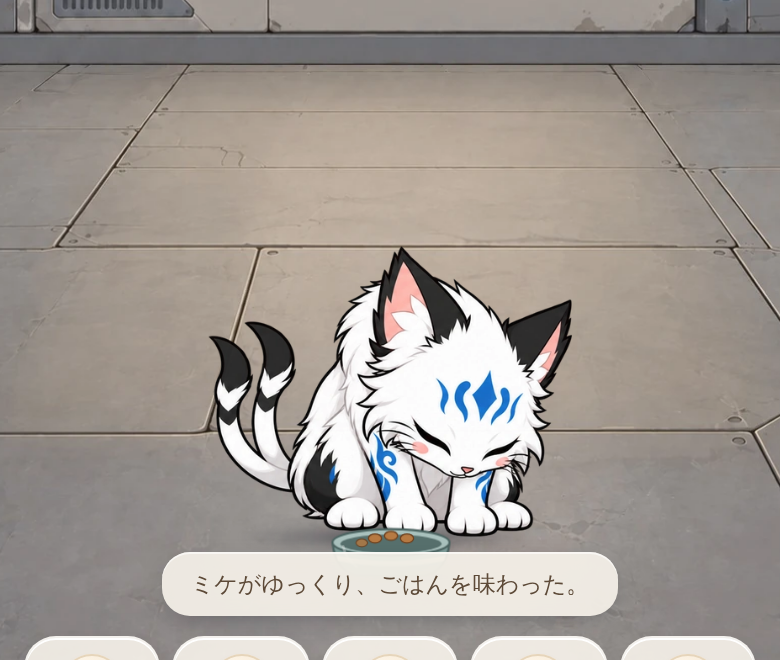
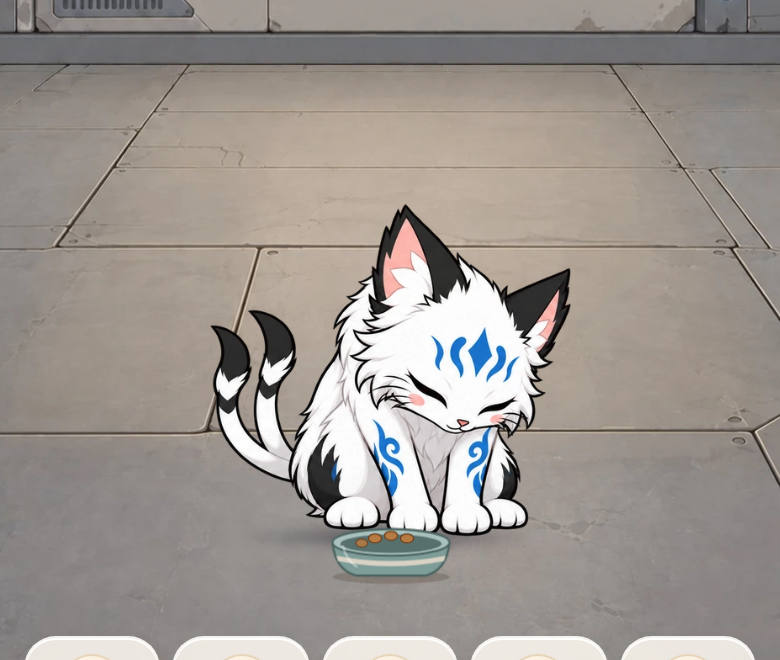
Import the re-uploaded intact pet packs (no repairs needed)
Claude-Session: https://claude.ai/code/session_01VFqs9zt8fg4yysVesTvDts

Changed region(s): [[0.1846, 0.303, 0.8, 0.9394]]

diff --git a/tests/pets-assets.test.ts b/tests/pets-assets.test.ts
@@ -39,8 +39,8 @@ describe("取り込んだペット素材（6体 × 8動作）", () => {
       expect(new Set(CHARS.map(total)).size, a).toBe(1);
     }
   });
-  it("欠けて読めなかった絵の復元内容を記録している（cat_adult）", () => {
-    expect(manifest.repairs.cat_adult!.length).toBe(8);
+  it("再アップロードされた素材はすべて無事で、復元・置き換えを使っていない", () => {
+    for (const c of CHARS) expect(manifest.repairs[c], c).toEqual([]);
   });
 });
 

diff --git a/scripts/import-pets.py b/scripts/import-pets.py
@@ -18,7 +18,7 @@ ROOT = Path(__file__).resolve().parents[1]
 OUT = ROOT / 'public/assets/pets'
 PAGE = 2048
 PADDING = 4
-SUBSTITUTE = {('cat_adult', 'eat/00'): 'eat/03', ('cat_adult', 'eat/01'): 'eat/03'}
+SUBSTITUTE = {}   # 切れた素材の置き換え（現在は全素材が無事なので空）。必要なら {('キャラ', 'eat/00'): 'eat/03'} の形で指定
 
 
 def pack_page(items):

diff --git a/docs/pets-v2.md b/docs/pets-v2.md
@@ -8,13 +8,10 @@
   使うコマだけを詰め直し、WebP（質 96・アルファ無劣化）に変換（PNG 計約 47MB → 約 11MB）。元の画素は変えていない。
 - 旧素材（`public/assets/dog`・`public/assets/pet/cat`、旧リグのコード）はリポジトリに残すが、使わない（事前キャッシュ・プレビューから除外）。
 
-## 提供素材の不具合と復元（要確認）
-- **`cat_adult/page-0.png` が途中で切れている**（ZIP の整合性は正常。ファイル自体が約 55% で終わっている）。使うコマのうち欠けたのは 8 コマ。
-  - `walk_right/02〜07`：`walk_left/02〜07`（別ページで無事）を左右反転して復元。素材の説明どおり左右は厳密な反転で、無事なコマで差が 0 であることを確認済み。
-  - `eat/00`・`eat/01`：復元できないため、近い姿勢の `eat/03`（頭を下げた姿勢）で置き換えた。**成猫の食事で、舌を出すコマがなくなり、頭を下げたまま止まる時間が少し長い。**
-  - 原本を再アップロードしてもらえれば、`scripts/import-pets.py` を再実行して差し替えられる。
-- `cat_baby/page-1`・`dog_baby/page-1` も切れていたが、`animations.json` から参照されないページ（旧版の残り）なので影響なし。
-- `animations.json` の `pages` の数が実際のファイル数と合わない（参照されないページがある）。取り込みでは参照されるコマだけを使う。
+## 提供素材の不具合（解決済み）
+- 最初に受け取った `PetGame_Cat_Phaser_Pack` の `cat_adult/page-0.png` が途中で切れていた（使うコマのうち 8 コマが欠落）。仮に、歩き 6 コマは左向きの反転（厳密一致を確認）、食事 2 コマは別コマで置き換えていた。
+- 2026-10-05 に再アップロードされた素材では、切れていた `cat_adult/page-0`・`cat_baby/page-1`・`dog_baby/page-1` が無事になっていることを確認し（読み込める行数で検査）、全コマを原本から取り込み直した。以前の反転による復元が原本と一致していたことも確認（差 0）。復元・置き換えは使っていない。
+- `animations.json` の `pages` の数が実際のファイル数と合わない（参照されないページがある）。取り込みでは参照されるコマだけを使う。`dog_baby/page-1.repaired.png`（切れたままの別ファイル）は使わない。
 
 ## 実装
 - `src/render/pet-sprite.ts`：Phaser 3 のスプライトでコマ送りを再生（素材の `petAnimations.mjs` と同じ方式：フレームごとの表示時間、`frameRate: 1000`）。動作の切り替えで前のコマを 90ms 溶かす。ゲームはスロットごとに 1 つを使い回し、描き直しでは canvas を付け替える。成長段階が変わると絵を読み込み直す。

diff --git a/CLAUDE.md b/CLAUDE.md
@@ -184,4 +184,4 @@ src/platform/  保存・音・入力・PWA・触覚
 - ペットを猫に・部屋を新背景に差し替え（2026-10-04）：部屋を画面いっぱいの舞台にし、猫を指定の比率で配置。猫は Phaser 3 のパーツ式（耳・しっぽはしなる Rope、目は閉じ目などのシール）。犬の素材・コードは残すが使わない。詳細・確認範囲・未対応は `docs/pet-cat.md`。UI・部屋の質感の項（2026-10-03）の自作の部屋背景は廃止した。
 - 導入・ペット選択（2026-10-04、ユーザー提供「導入・ペット選択 コンセプト仕様書」）：起動 → 壊れた音声記録（「……お願い」「この子を、生かして。」→「記録の一部を復元できませんでした。」。三つ目の言葉は出さない）→ 部屋映像の復元 → 犬と猫に触れて反応を見る → 「この子を保護しますか？」→ 暗転 → 名称登録 → DAY 01 → 最初のごはん・なでる案内。実装は `src/ui/intro.ts`・`src/platform/ambient.ts`（合成の環境音）・`src/render/pets.ts`（種類ごとの配置）。音声の収録はなく字幕と雑音のみ。タイトル画面は別途決定のため、起動前に「タップして起動」の仮画面のみ。詳細・確認範囲は `docs/intro.md`。
 - ペットの動き追加・大きさ統一（2026-10-04）：犬・猫の大きさを揃え、共通の動き（歩く・のび・ぶるぶる・くんくん）と部屋内の歩行（自動・床タップ・ごはんで中央へ）を追加。絵のタッチは元PNGのまま（描き直しなし）。詳細・確認範囲は `docs/pet-motions.md`。
-- ペットの新素材への差し替え（2026-10-05）：Phaser 3 のスプライトでコマ送り（`src/render/pet-sprite.ts`・`pets.ts`）。成長は日数で段階切替（案）。**提供素材の `cat_adult/page-0.png` が途中で切れており、8コマを復元・置換（要再アップロード）**。旧リグ・旧素材は残すが未使用。詳細・確認範囲は `docs/pets-v2.md`。
+- ペットの新素材への差し替え（2026-10-05）：Phaser 3 のスプライトでコマ送り（`src/render/pet-sprite.ts`・`pets.ts`）。成長は日数で段階切替（案）。提供素材の一部が切れていたが、再アップロードで解消し全コマを原本から取り込み済み。旧リグ・旧素材は残すが未使用。詳細・確認範囲は `docs/pets-v2.md`。
